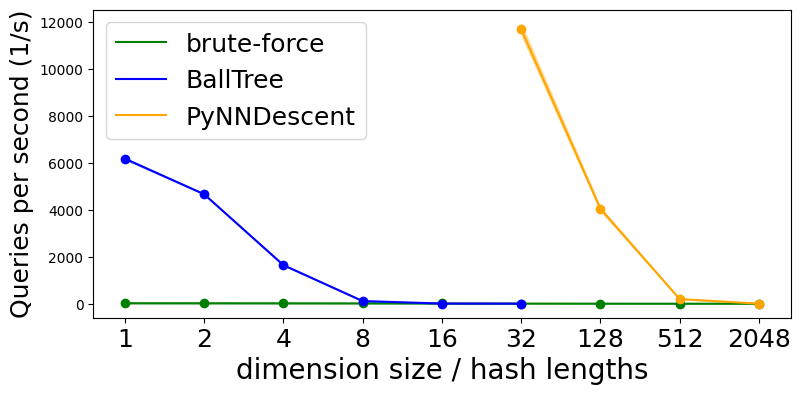
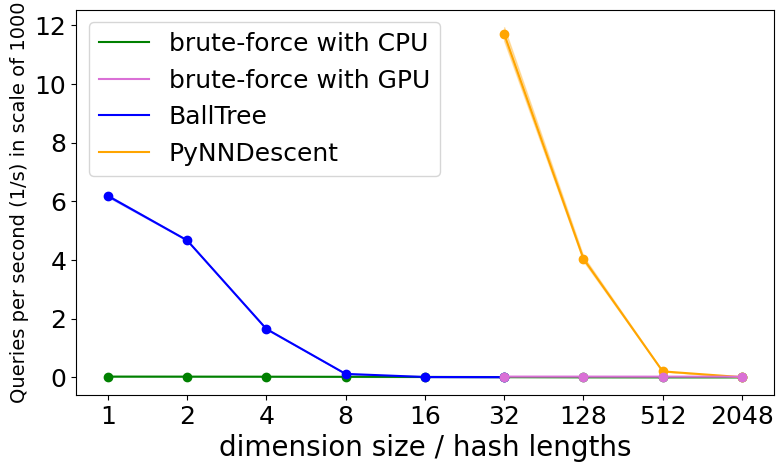
upd: updates paper charts

Changed region(s): [[0.0, 0.0, 1.0, 0.9722]]

diff --git a/definitive_results/generate_paper_charts.py b/definitive_results/generate_paper_charts.py
@@ -160,7 +160,7 @@ def speedup_data_vs_query_parallelism():
         axs[0].fill_between(x, y - y_error, y + y_error, alpha=0.3, color=color)
     axs[0].plot(optimal_speedup, optimal_speedup, label='optimal scalability', color='#C1666B')
     axs[0].set_xlabel('number processes', fontsize=20)
-    axs[0].set_xticks(optimal_speedup[1:], optimal_speedup[1:], fontsize=18)
+    axs[0].set_xticks(optimal_speedup, optimal_speedup, fontsize=18)
     axs[0].set_title('(a) Data Parallelism & large synthetic', fontsize=23)
     axs[0].set_yticks(optimal_speedup[1:], optimal_speedup[1:], fontsize=18)
     axs[0].set_ylabel('Speed-up', fontsize=18)
@@ -180,7 +180,7 @@ def speedup_data_vs_query_parallelism():
         axs[1].plot(x, y, color=color, marker='o')
         axs[1].fill_between(x, y - y_error, y + y_error, alpha=0.3, color=color)
     axs[1].set_xlabel('number processes', fontsize=20)
-    axs[1].set_xticks(optimal_speedup[1:], optimal_speedup[1:], fontsize=18)
+    axs[1].set_xticks(optimal_speedup, optimal_speedup, fontsize=18)
     axs[1].plot(optimal_speedup, optimal_speedup, label='optimal scalability', color='#C1666B')
     axs[1].set_title('(b) Query Parallelism & large synthetic', fontsize=23)
 
@@ -200,7 +200,7 @@ def speedup_data_vs_query_parallelism():
         axs[2].fill_between(x, y - y_error, y + y_error, alpha=0.3, color=color)
     axs[2].plot(optimal_speedup, optimal_speedup, label='optimal scalability', color='#C1666B')
     axs[2].set_xlabel('number processes', fontsize=20)
-    axs[2].set_xticks(optimal_speedup[1:], optimal_speedup[1:], fontsize=18)
+    axs[2].set_xticks(optimal_speedup, optimal_speedup, fontsize=18)
     axs[2].set_title('(c) Query Parallelism & AU-AIR', fontsize=23)
 
     handles, labels = axs[0].get_legend_handles_labels()
@@ -319,27 +319,6 @@ def speedup_cpu_vs_gpu():
 
     lines = [
         (
-            speedup_query_parallelism_large[hash_length]['mean'],
-            speedup_query_parallelism_large[hash_length]['error'],
-            optimal_speedup,
-            colors[index]
-        )
-        for index, hash_length in enumerate(speedup_query_parallelism_large.keys())
-    ]
-
-    for line in lines:
-        y, y_error, x, color = line
-        axs[0].plot(x, y, color=color, marker='o')
-        axs[0].fill_between(x, y - y_error, y + y_error, alpha=0.3, color=color)
-    axs[0].plot(optimal_speedup, optimal_speedup, label='optimal scalability', color='#C1666B')
-    plt.xlabel('number processes / GPUs', fontsize=16)
-    plt.xticks(optimal_speedup[1:], fontsize=18)
-    axs[0].set_title('CPU', fontsize=18)
-    axs[0].set_yticks(optimal_speedup, optimal_speedup, fontsize=18)
-    axs[0].set_ylabel('Speed-up', fontsize=18)
-
-    lines = [
-        (
             speedup_query_parallelism_large_gpu[hash_length]['mean'],
             speedup_query_parallelism_large_gpu[hash_length]['error'],
             optimal_speedup,
@@ -350,12 +329,33 @@ def speedup_cpu_vs_gpu():
 
     for line in lines:
         y, y_error, x, color = line
+        axs[0].plot(x, y, color=color, marker='o')
+        axs[0].fill_between(x, y - y_error, y + y_error, alpha=0.3, color=color)
+    axs[0].plot(optimal_speedup, optimal_speedup, label='optimal scalability', color='#C1666B')
+    axs[0].set_title('GPU', fontsize=18)
+    axs[0].set_yticks([1, 64, 128, 384, 512], [1, 64, 128, 384, 512], fontsize=18)
+    axs[0].set_ylabel('Speed-up', fontsize=18, labelpad=-18)
+
+    lines = [
+        (
+            speedup_query_parallelism_large[hash_length]['mean'],
+            speedup_query_parallelism_large[hash_length]['error'],
+            optimal_speedup,
+            colors[index]
+        )
+        for index, hash_length in enumerate(speedup_query_parallelism_large.keys())
+    ]
+
+    for line in lines:
+        y, y_error, x, color = line
         axs[1].plot(x, y, color=color, marker='o')
         axs[1].fill_between(x, y - y_error, y + y_error, alpha=0.3, color=color)
     axs[1].plot(optimal_speedup, optimal_speedup, label='optimal scalability', color='#C1666B')
-    axs[1].set_title('GPU', fontsize=18)
-    axs[1].set_yticks([1, 64, 128, 384, 512], [1, 64, 128, 384, 512], fontsize=18)
-    axs[1].set_ylabel('Speed-up', fontsize=18, labelpad=-18)
+    plt.xlabel('number processes / GPUs', fontsize=16)
+    plt.xticks(optimal_speedup, fontsize=18)
+    axs[1].set_title('CPU', fontsize=18)
+    axs[1].set_yticks(optimal_speedup, optimal_speedup, fontsize=18)
+    axs[1].set_ylabel('Speed-up', fontsize=18)
 
     handles, labels = axs[0].get_legend_handles_labels()
     line_1 = Line2D([0], [0], label='32 hash length', color='green')
@@ -449,28 +449,8 @@ def qps_cpu_vs_gpu():
 
     lines = [
         (
-            np.asarray(qps_query_parallelism_large[hash_length]['mean']),
-            np.asarray(qps_query_parallelism_large[hash_length]['error']),
-            np.asarray([1, 2, 4]),
-            colors[index]
-        )
-        for index, hash_length in enumerate(qps_query_parallelism_large.keys())
-    ]
-
-    for line in lines:
-        y, y_error, x, color = line
-        axs[0].plot(x, y, color=color, marker='o')
-        axs[0].fill_between(x, y - y_error, y + y_error, alpha=0.3, color=color)
-    plt.xlabel('number processes / GPUs', fontsize=16)
-    plt.xticks([1, 2, 4], fontsize=18)
-    axs[0].set_title('CPU', fontsize=18)
-    axs[0].set_yticks([2, 4, 8, 16], [2, 4, 8, 16], fontsize=18)
-    axs[0].set_ylabel('Queries per second (1/s)', fontsize=18)
-
-    lines = [
-        (
-            np.asarray(qps_query_parallelism_large_gpu[hash_length]['mean']),
-            np.asarray(qps_query_parallelism_large_gpu[hash_length]['error']),
+            np.asarray(qps_query_parallelism_large_gpu[hash_length]['mean']) / 1000,
+            np.asarray(qps_query_parallelism_large_gpu[hash_length]['error']) / 1000,
             np.asarray([1, 2, 4]),
             colors[index]
         )
@@ -479,11 +459,31 @@ def qps_cpu_vs_gpu():
 
     for line in lines:
         y, y_error, x, color = line
+        axs[0].plot(x, y, color=color, marker='o')
+        axs[0].fill_between(x, y - y_error, y + y_error, alpha=0.3, color=color)
+    axs[0].set_title('GPU', fontsize=18)
+    axs[0].set_yticks([0.02, 0.03, 0.04, 0.05, 0.06], [0.02, 0.03, 0.04, 0.05, 0.06], fontsize=18)
+    axs[0].set_ylabel('Queries per second (1/s) in scale of 1000', fontsize=16)
+
+    lines = [
+        (
+            np.asarray(qps_query_parallelism_large[hash_length]['mean']) / 1000,
+            np.asarray(qps_query_parallelism_large[hash_length]['error']) / 1000,
+            np.asarray([1, 2, 4]),
+            colors[index]
+        )
+        for index, hash_length in enumerate(qps_query_parallelism_large.keys())
+    ]
+
+    for line in lines:
+        y, y_error, x, color = line
         axs[1].plot(x, y, color=color, marker='o')
         axs[1].fill_between(x, y - y_error, y + y_error, alpha=0.3, color=color)
-    axs[1].set_title('GPU', fontsize=18)
-    axs[1].set_yticks([8, 16, 32, 64], [8, 16, 32, 64], fontsize=18)
-    axs[1].set_ylabel('Queries per second (1/s)', fontsize=18)
+    plt.xlabel('number processes / GPUs', fontsize=16)
+    plt.xticks([1, 2, 4], fontsize=18)
+    axs[1].set_title('CPU', fontsize=18)
+    axs[1].set_yticks([0.00, 0.01, 0.02], [0.00, 0.01, 0.02], fontsize=18)
+    axs[1].set_ylabel('Queries per second (1/s) in scale of 1000', fontsize=16)
 
     handles, labels = axs[0].get_legend_handles_labels()
     line_1 = Line2D([0], [0], label='32 hash length', color='green')
@@ -668,30 +668,40 @@ def course_dimensionality():
         'mean': [np.NaN, np.NaN, np.NaN, np.NaN, np.NaN, 11708.504448089661, 4042.2247382688497, 199.07459845906192, 2.704015756545677],
         'error': [np.NaN, np.NaN, np.NaN, np.NaN, np.NaN, 231.45319988448057, 80.30552987306814, 2.87626509918476, 0.055557669498237754]
     }
+    qps_bruteforce_large_gpu = {
+        'mean': [np.NaN, np.NaN, np.NaN, np.NaN, np.NaN, 21.104572589765752, 21.09609487083733, 19.734008523966025, 18.14725961274277],
+        'error': [np.NaN, np.NaN, np.NaN, np.NaN, np.NaN, 0.6959737402052791, 0.15123938852234747, 1.2796876051427148, 0.3999890494492262]
+    }
     colors = ['green', 'blue', 'orange', 'orchid']
     lines = [
         (
-            np.asarray(qps_bruteforce_large['mean']),
-            np.asarray(qps_bruteforce_large['error']),
+            np.asarray(qps_bruteforce_large['mean'])/1000,
+            np.asarray(qps_bruteforce_large['error'])/1000,
             np.arange(0, len(qps_bruteforce_large['mean'])),
             colors[0]
         ),
         (
-            np.asarray(qps_balltree_large['mean']),
-            np.asarray(qps_balltree_large['error']),
+            np.asarray(qps_balltree_large['mean'])/1000,
+            np.asarray(qps_balltree_large['error'])/1000,
             np.arange(0, len(qps_bruteforce_large['mean'])),
             colors[1]
         ),
         (
-            np.asarray(qps_pynndescent_large['mean']),
-            np.asarray(qps_pynndescent_large['error']),
+            np.asarray(qps_pynndescent_large['mean'])/1000,
+            np.asarray(qps_pynndescent_large['error'])/1000,
             np.arange(0, len(qps_bruteforce_large['mean'])),
             colors[2]
+        ),
+        (
+            np.asarray(qps_bruteforce_large_gpu['mean'])/1000,
+            np.asarray(qps_bruteforce_large_gpu['error'])/1000,
+            np.arange(0, len(qps_bruteforce_large['mean'])),
+            colors[3]
         )
 
     ]
 
-    plt.figure(figsize=(9, 4))
+    plt.figure(figsize=(9, 5))
     ax = plt.gca()
 
     for line in lines:
@@ -700,16 +710,18 @@ def course_dimensionality():
         plt.fill_between(x, y - y_error, y + y_error, alpha=0.3, color=color)
     # plt.yticks([2, 4, 8, 16], [2, 4, 8, 16], fontsize=18)
     #plt.ylim(2, 25)
-    plt.ylabel('Queries per second (1/s)', fontsize=18)
+    plt.ylabel('Queries per second (1/s) in scale of 1000', fontsize=14)
     plt.xlabel('dimension size / hash lengths', fontsize=20)
+    plt.yticks(fontsize=18)
     plt.xticks(np.arange(0, len(qps_bruteforce_large['mean'])), [1, 2, 4, 8, 16, 32, 128, 512, 2048], fontsize=18)
 
     handles, labels = ax.get_legend_handles_labels()
-    line_1 = Line2D([0], [0], label='brute-force', color=colors[0])
+    line_1 = Line2D([0], [0], label='brute-force with CPU', color=colors[0])
     line_2 = Line2D([0], [0], label='BallTree', color=colors[1])
     line_3 = Line2D([0], [0], label='PyNNDescent', color=colors[2])
-    handles.extend([line_1, line_2, line_3])
-    plt.legend(handles=handles, loc='best', fontsize=18)
+    line_4 = Line2D([0], [0], label='brute-force with GPU', color=colors[3])
+    handles.extend([line_1, line_4, line_2, line_3])
+    plt.legend(handles=handles, loc='upper left', fontsize=18)
     plt.savefig(f'paper_charts/course_of_dimensionality.png', bbox_inches='tight')
 
 
